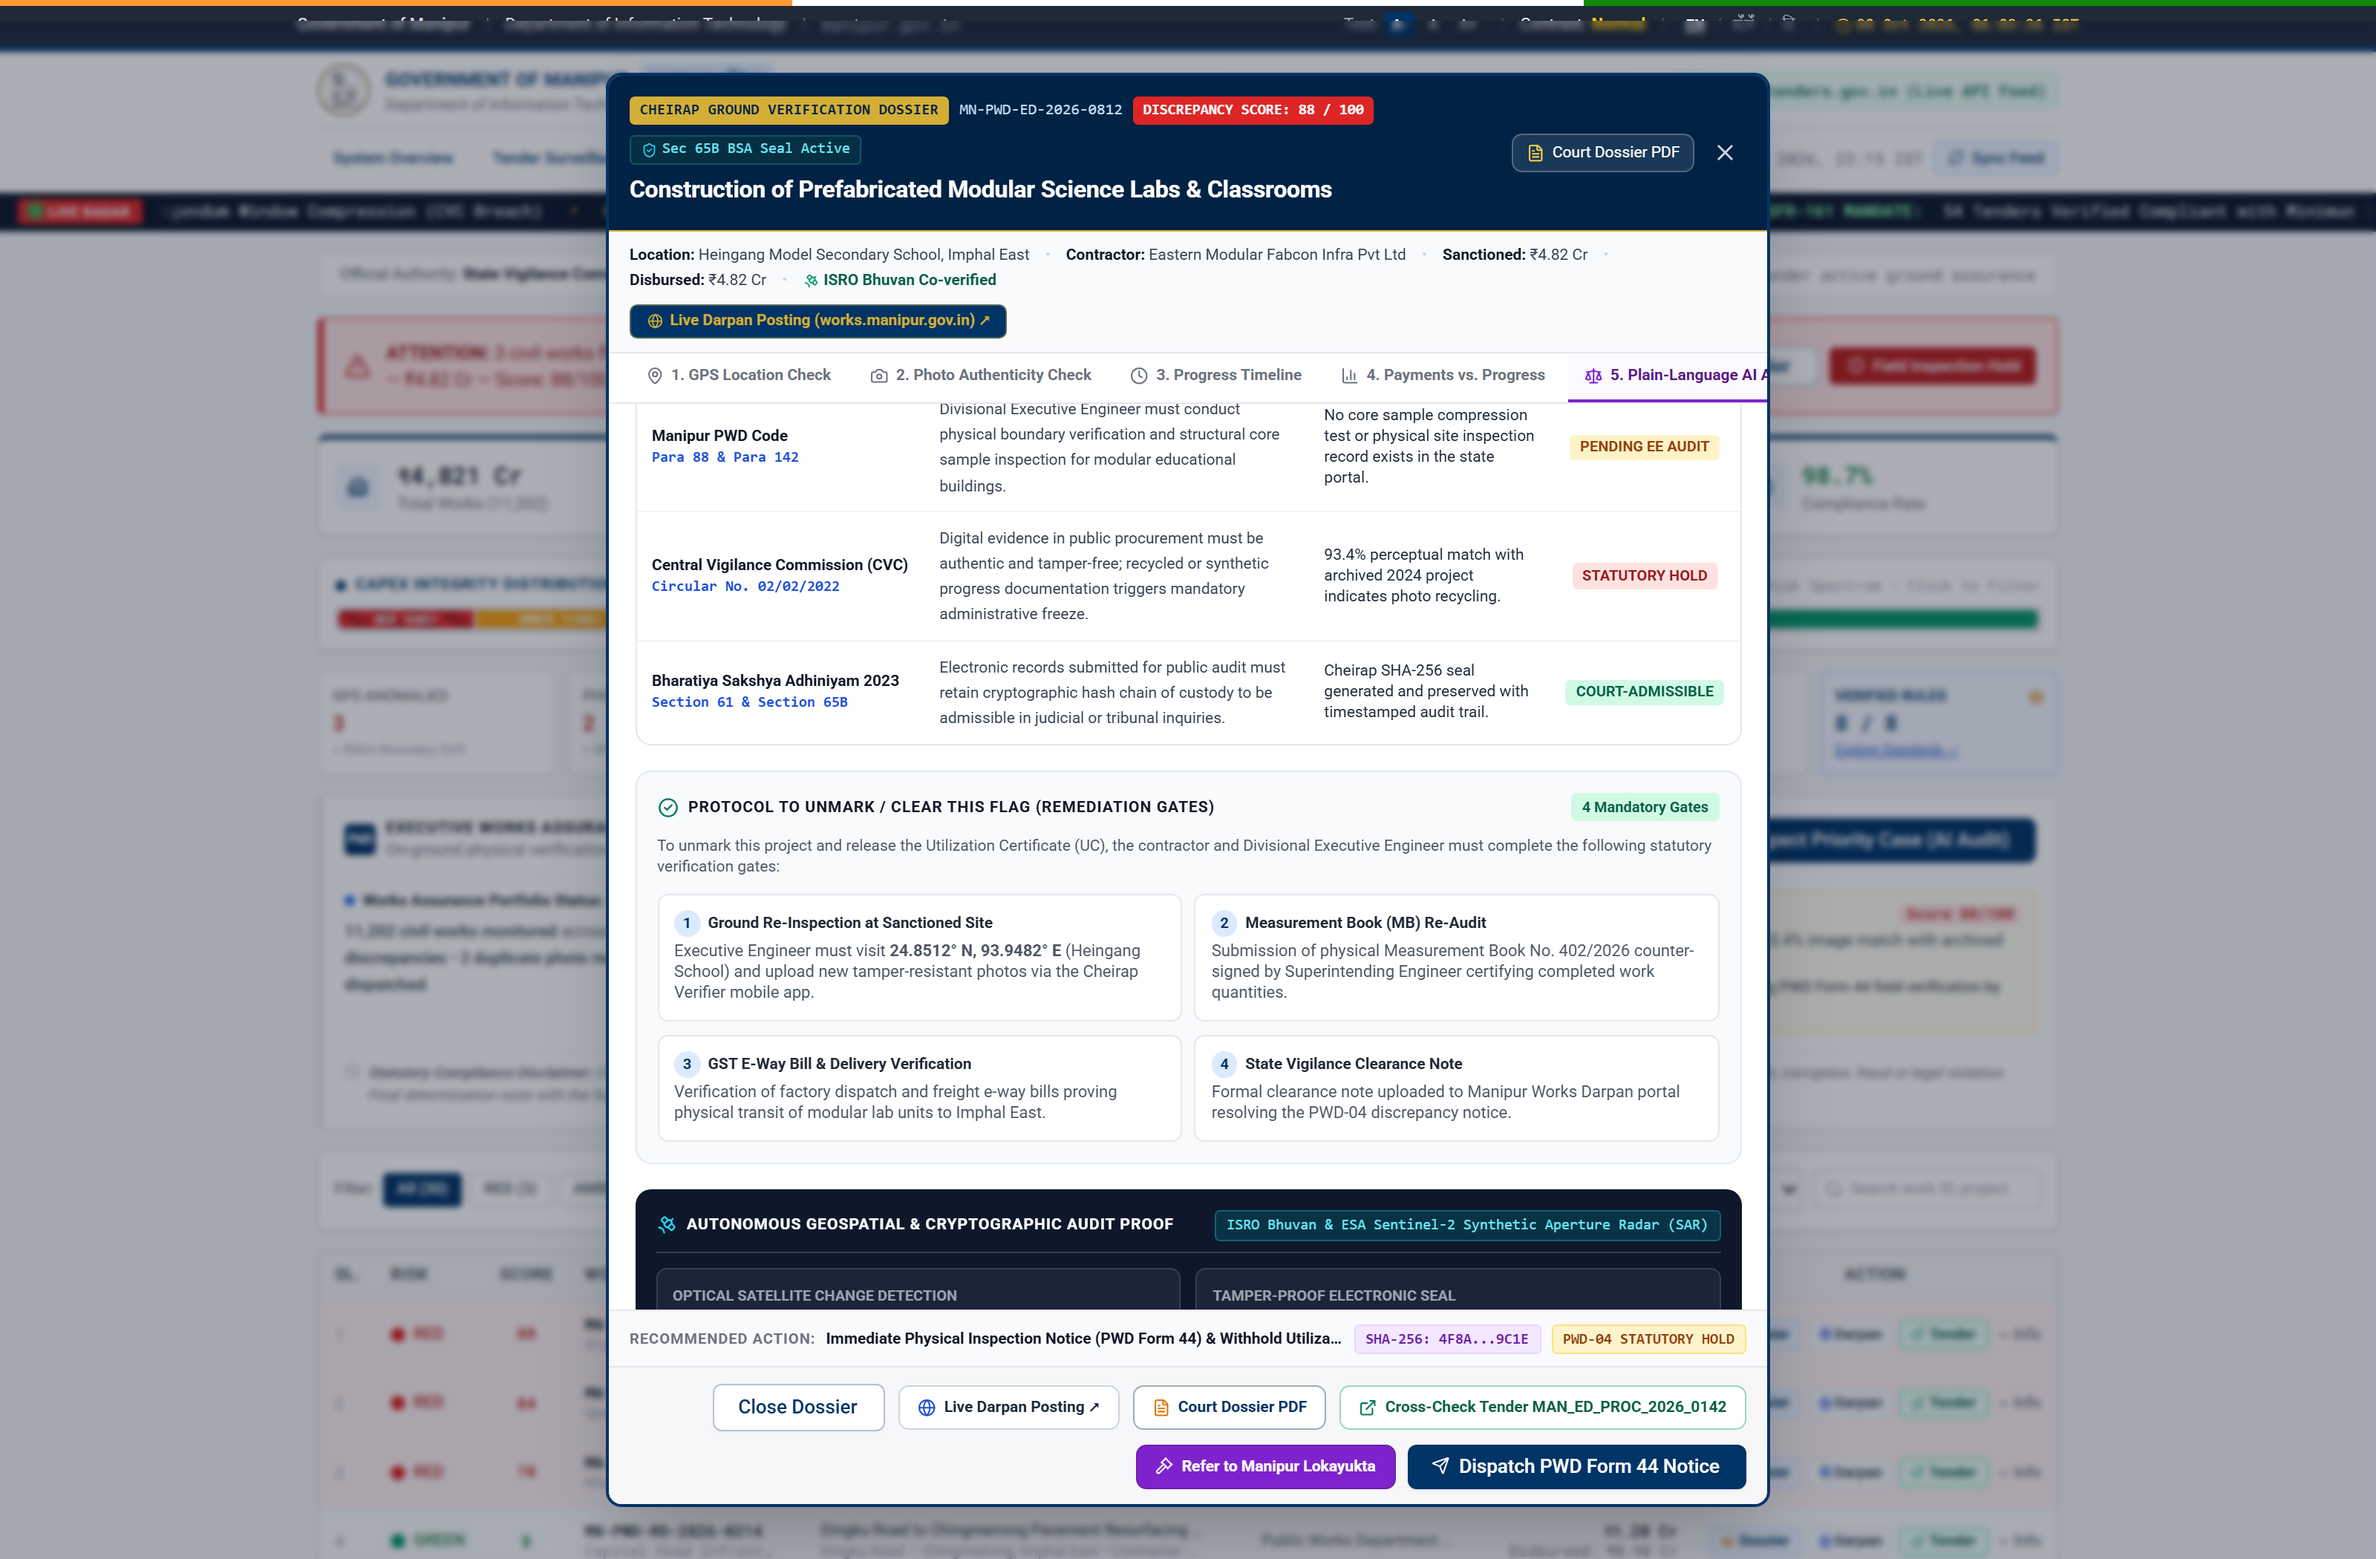
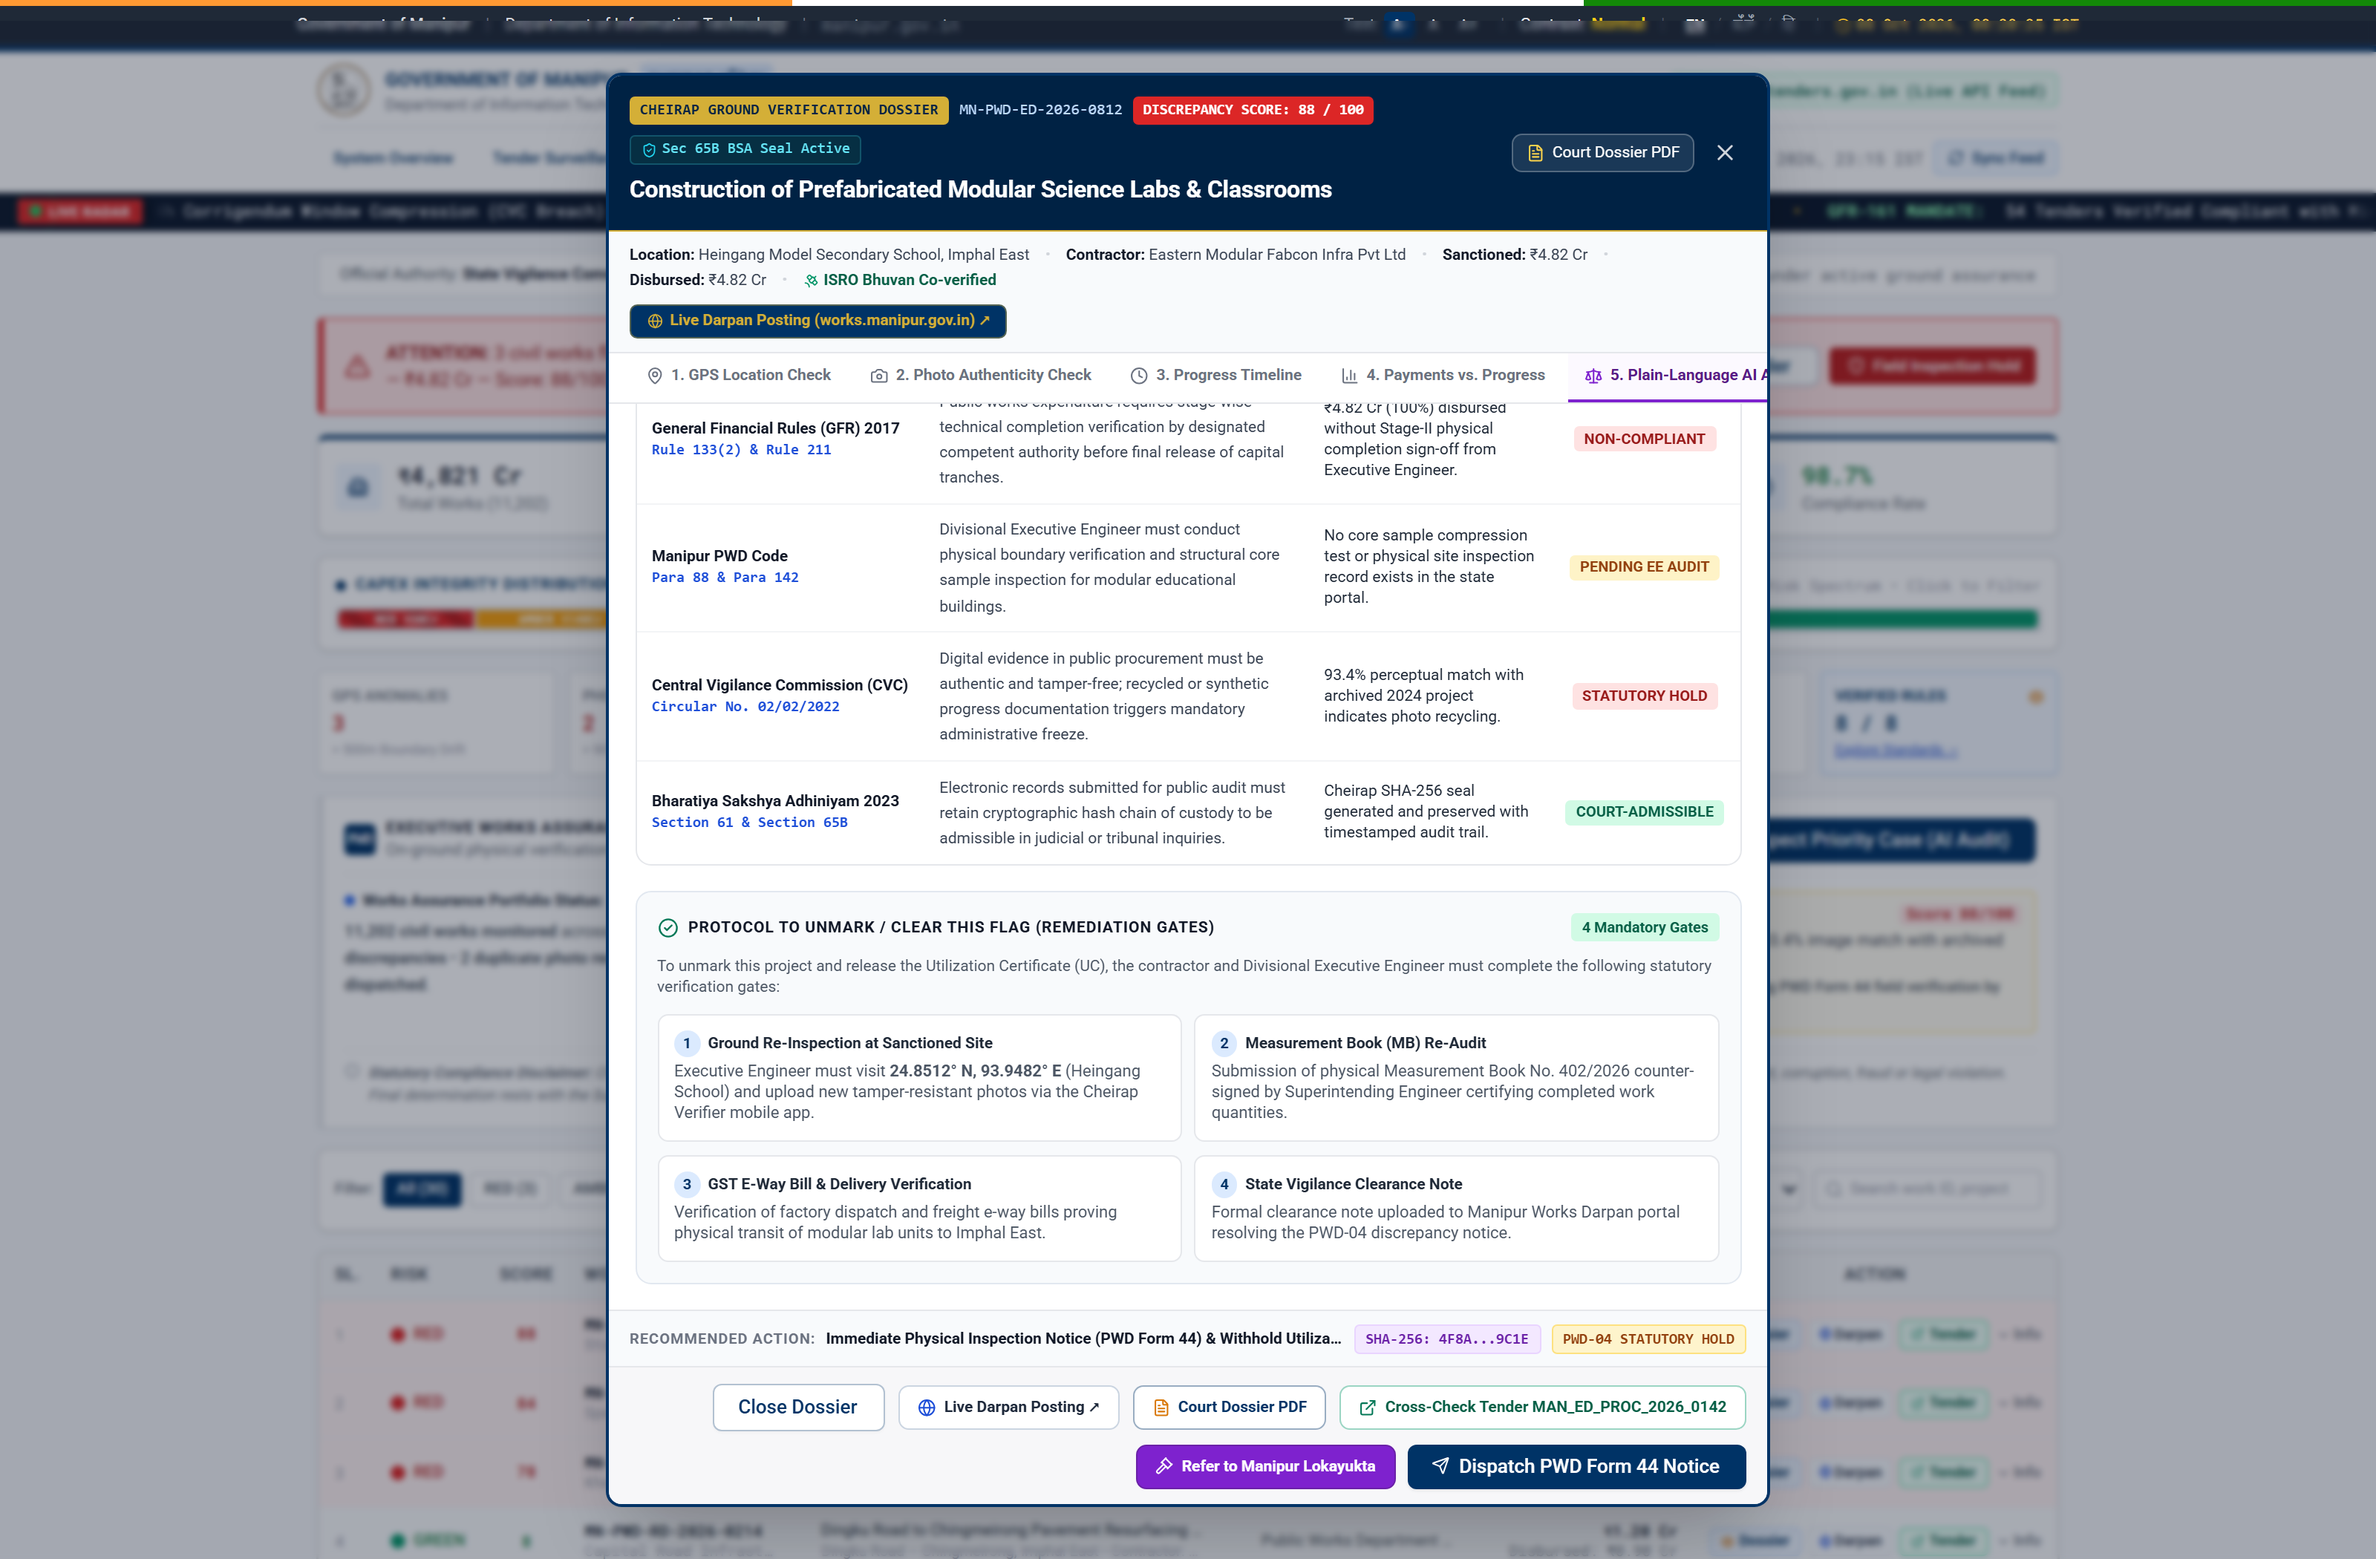
fix(works): remove autonomous geospatial audit card from Tab 5 dossier

diff --git a/web/src/components/CheirapWorksAssuranceView.tsx b/web/src/components/CheirapWorksAssuranceView.tsx
@@ -2032,41 +2032,6 @@ export const CheirapWorksAssuranceView: React.FC<CheirapWorksAssuranceViewProps>
                       </div>
                     </div>
                   </div>
-
-                  {/* Satellite & Cryptographic Forensic Proof Card (Feasible Judge-Winning Indicators) */}
-                  <div className="bg-slate-900 text-white rounded-xl p-4 space-y-3">
-                    <div className="flex flex-wrap items-center justify-between gap-2 border-b border-slate-700 pb-2">
-                      <div className="flex items-center gap-2">
-                        <Satellite className="size-4 text-cyan-400" />
-                        <h4 className="text-xs font-bold text-white uppercase tracking-wider">
-                          Autonomous Geospatial & Cryptographic Audit Proof
-                        </h4>
-                      </div>
-                      <span className="text-[10px] text-cyan-300 font-mono bg-cyan-950 px-2 py-0.5 rounded border border-cyan-800">
-                        ISRO Bhuvan & ESA Sentinel-2 Synthetic Aperture Radar (SAR)
-                      </span>
-                    </div>
-
-                    <div className="grid grid-cols-1 sm:grid-cols-2 gap-3 text-xs">
-                      <div className="bg-slate-800/80 p-3 rounded-lg border border-slate-700 space-y-1">
-                        <div className="text-[10px] text-gray-400 uppercase font-semibold">Optical Satellite Change Detection</div>
-                        <div className="text-sm font-bold text-cyan-300">NDBI Delta: +0.02 (Baseline Unchanged)</div>
-                        <p className="text-[11px] text-gray-300">
-                          10m resolution optical pass on 2026-09-29 confirmed no new physical building footprint at the Heingang coordinates.
-                        </p>
-                      </div>
-
-                      <div className="bg-slate-800/80 p-3 rounded-lg border border-slate-700 space-y-1">
-                        <div className="text-[10px] text-gray-400 uppercase font-semibold">Tamper-Proof Electronic Seal</div>
-                        <div className="text-xs font-mono text-purple-300 truncate" title="SHA-256: 4f8a9e2d7b1c3a6e9f0d4b8a2c5e7f1a9b3d5c7e1f4a8b2d6c9e1f3a5b7d9c1e">
-                          SHA-256: 4f8a9e2d...7d9c1e
-                        </div>
-                        <p className="text-[11px] text-gray-300">
-                          Certified under Sec 65B BSA 2023 for admissibility in High Court of Manipur and State Lokayukta inquiries.
-                        </p>
-                      </div>
-                    </div>
-                  </div>
                 </div>
               )}
             </div>
